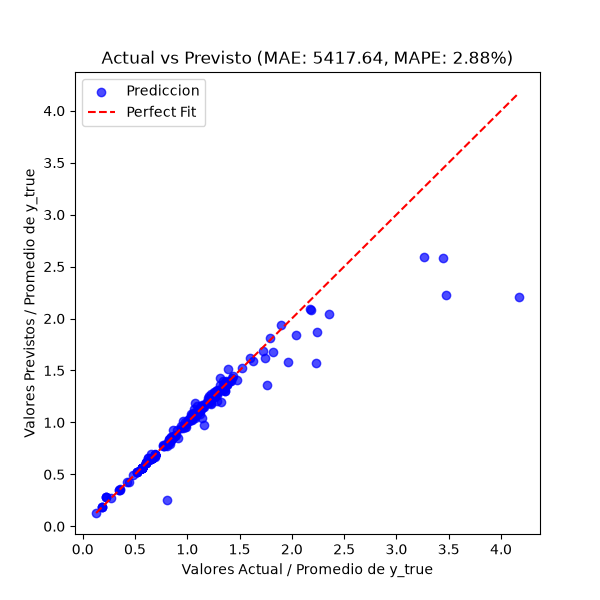
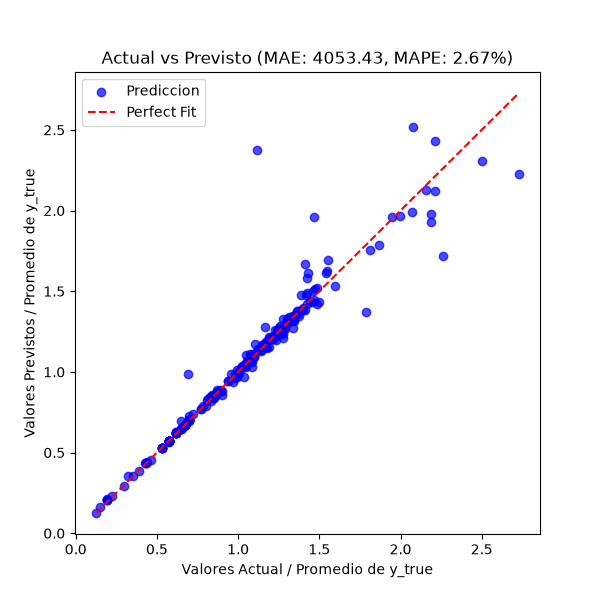
Cross-Validation

diff --git a/lpsmltraining.py b/lpsmltraining.py
@@ -1,22 +1,62 @@
 import pandas as pd
-from sklearn.model_selection import train_test_split
+from sklearn.model_selection import KFold, train_test_split, cross_val_score
 from sklearn.ensemble import RandomForestRegressor
+from sklearn.pipeline import make_pipeline
 from sklearn.preprocessing import StandardScaler
 from lpsmltest import computemetrics
 
-df = pd.read_excel("newtarifa.xlsx",engine="openpyxl")
 
+df = pd.read_excel("newtarifa.xlsx", engine="openpyxl")
 df = df.apply(pd.to_numeric)
 
 X = df.drop(columns=["PrimaCasco", "PrimaRC", "PrimaClausulaAjuste", "PrimaAccesorio", "Prima"])
 Y = df["Prima"]
 
-X_train, X_test, Y_train, Y_test = train_test_split(X, Y, test_size=0.2)
+cv = KFold(n_splits=5, shuffle=True, random_state=42)
 
-scaler = StandardScaler()
-X_train = scaler.fit_transform(X_train)
-X_test = scaler.transform(X_test)
+best_model = None
+best_result = None
 
-model = RandomForestRegressor()
-model.fit(X_train, Y_train)
-computemetrics(model, X_test, Y_test, X_train)
+parameter_grid = [
+    {"n_estimators": 100, "max_depth": None},
+    {"n_estimators": 200, "max_depth": None},
+    {"n_estimators": 300, "max_depth": None},
+    {"n_estimators": 200, "max_depth": 5},
+    {"n_estimators": 200, "max_depth": 10},
+]
+
+for params in parameter_grid:
+    pipeline = make_pipeline(
+        StandardScaler(),
+        RandomForestRegressor(
+            random_state=42,
+            n_jobs=-1,
+            n_estimators=params["n_estimators"],
+            max_depth=params["max_depth"],
+        ),
+    )
+
+    scores = cross_val_score(
+        pipeline,
+        X,
+        Y,
+        cv=cv,
+        scoring="neg_mean_absolute_error",
+        n_jobs=-1,
+    )
+
+    mean_mae = -scores.mean()
+    print(
+        f"n_estimators={params['n_estimators']}, max_depth={params['max_depth']} -> "
+        f"CV MAE: {mean_mae:.4f}"
+    )
+
+    if best_result is None or mean_mae < best_result:
+        best_result = mean_mae
+        best_model = pipeline
+
+print(f"Best cross-validated MAE: {best_result:.4f}")
+
+X_train, X_test, Y_train, Y_test = train_test_split(X, Y, test_size=0.2, random_state=42)
+best_model.fit(X_train, Y_train)
+computemetrics(best_model, X_test, Y_test, X_train)

diff --git a/lpsmltest.py b/lpsmltest.py
@@ -4,28 +4,30 @@ import matplotlib.pyplot as plt
 from sklearn.metrics import mean_absolute_error
 from sklearn.metrics import mean_absolute_percentage_error
 
+
 def computemetrics(model, X_test, Y_test, X_train):
     real_values = Y_test
     print("Accuracy: ", model.score(X_test, Y_test))
     
-    # Read the full original dataset
     df = pd.read_excel("newtarifa.xlsx", engine="openpyxl")
     
-    y_true = np.array(real_values)
+    y_true = np.asarray(real_values, dtype=float)
     pred_values = model.predict(X_test)
-    y_pred = np.array(pred_values)
+    y_pred = np.asarray(pred_values, dtype=float)
     
-    # Calculate percentage error
-    percentage_error = ((y_true - y_pred) / y_true) * 100
+    with np.errstate(divide="ignore", invalid="ignore"):
+        percentage_error = np.divide(
+            y_true - y_pred,
+            y_true,
+            out=np.full(y_true.shape, np.nan, dtype=float),
+            where=np.abs(y_true) > 0,
+        ) * 100
     
-    # Initialize new columns with NaN for training rows (signifies not predicted)
     df["Prima Previsto"] = np.nan
     df["Porcentaje Error"] = np.nan
     
-    # Get the indices of test samples (Y_test has the original indices)
     test_indices = Y_test.index.tolist()
     
-    # Fill in predictions and errors only for test rows
     for idx, pred, error in zip(test_indices, pred_values, percentage_error):
         df.loc[idx, "Prima Previsto"] = float(pred)
         df.loc[idx, "Porcentaje Error"] = float(error)
@@ -33,7 +35,6 @@ def computemetrics(model, X_test, Y_test, X_train):
     mae = mean_absolute_error(y_true, y_pred)
     print(f"Mean Absolute Error: {mae}")
 
-    # Create analysis dataframe for visualizations
     analysis_df = pd.DataFrame({
         'Real': y_true,
         'Previsto': y_pred,
@@ -71,9 +72,7 @@ def computemetrics(model, X_test, Y_test, X_train):
     plt.legend()
     plt.savefig("Hist_error.png")
     
-    # Create a zoomed histogram focusing on the high-density range
     errors = np.abs(y_true - y_pred)
-    # Find the range containing 90% of errors (focusing on the dense region)
     percentile_90 = np.percentile(errors, 90)
     zoomed_errors = errors[errors <= percentile_90]
     
@@ -86,5 +85,4 @@ def computemetrics(model, X_test, Y_test, X_train):
     plt.legend()
     plt.savefig("Hist_error_zoomed.png")
     
-    # Save full dataframe with predictions and errors to Excel
     df.to_excel("newtarifa.xlsx", index=False)